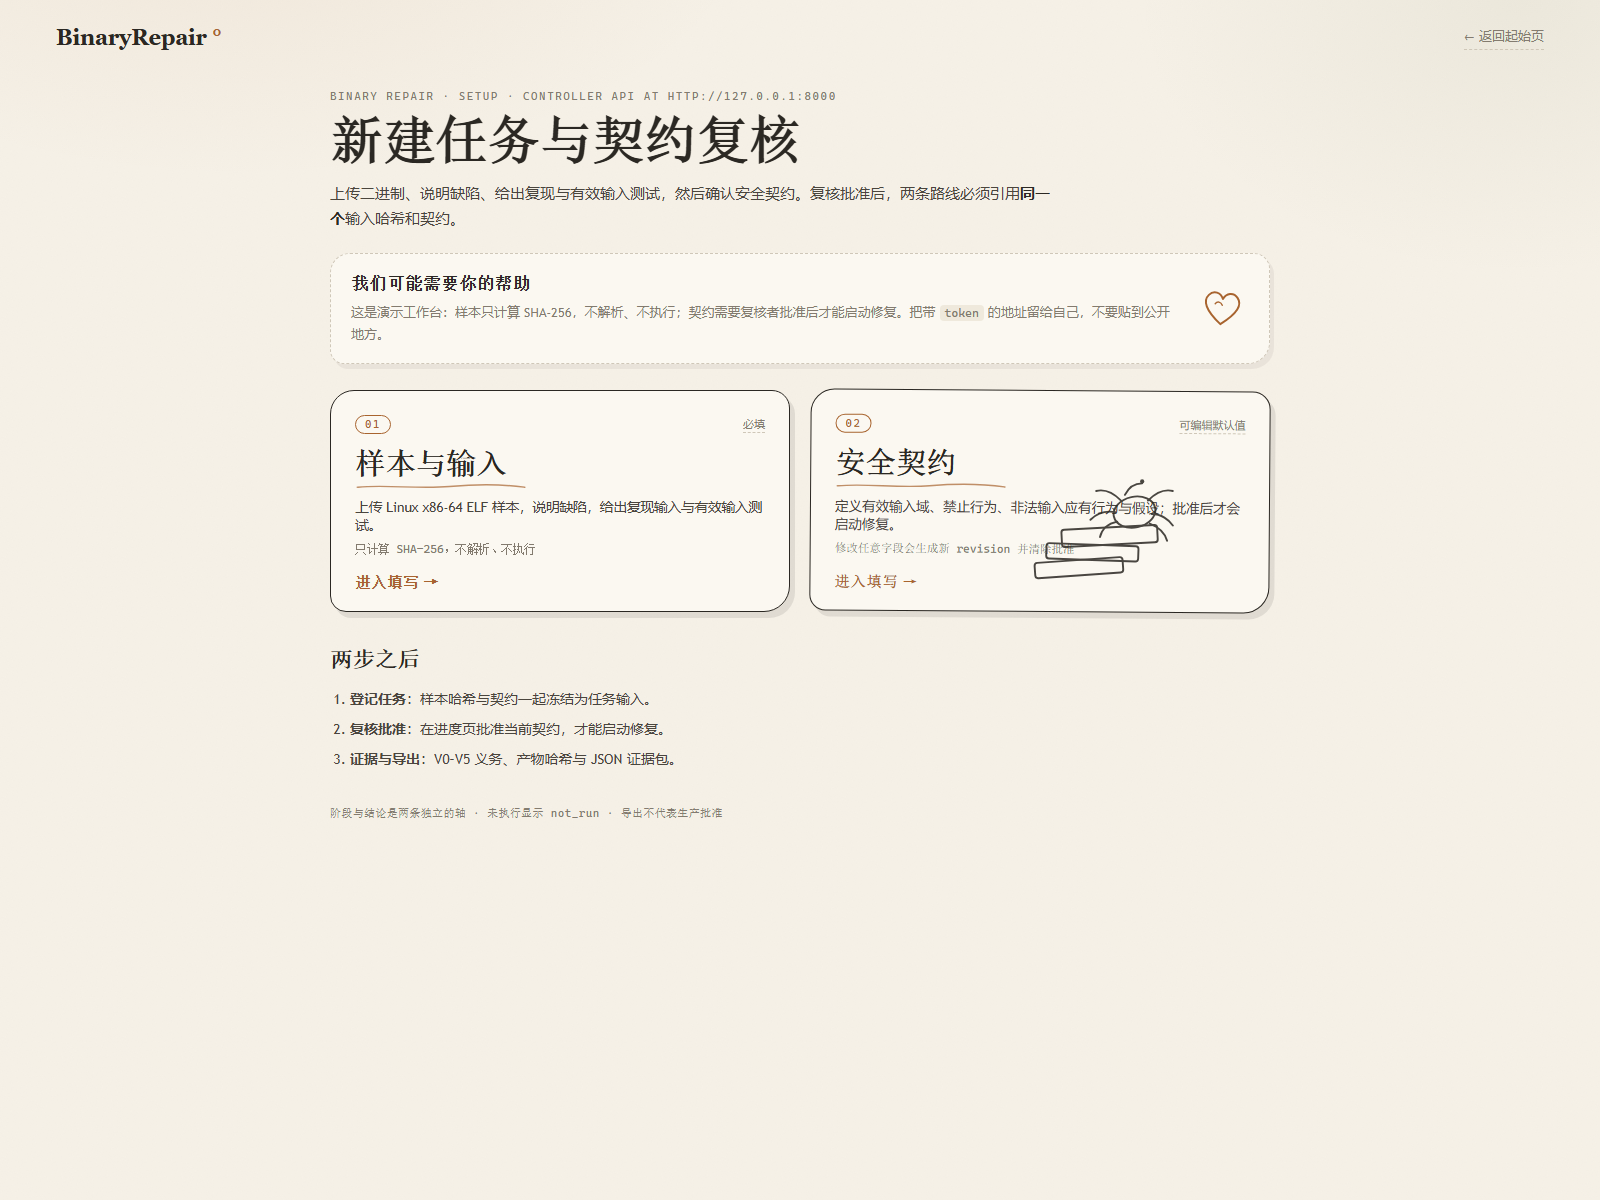
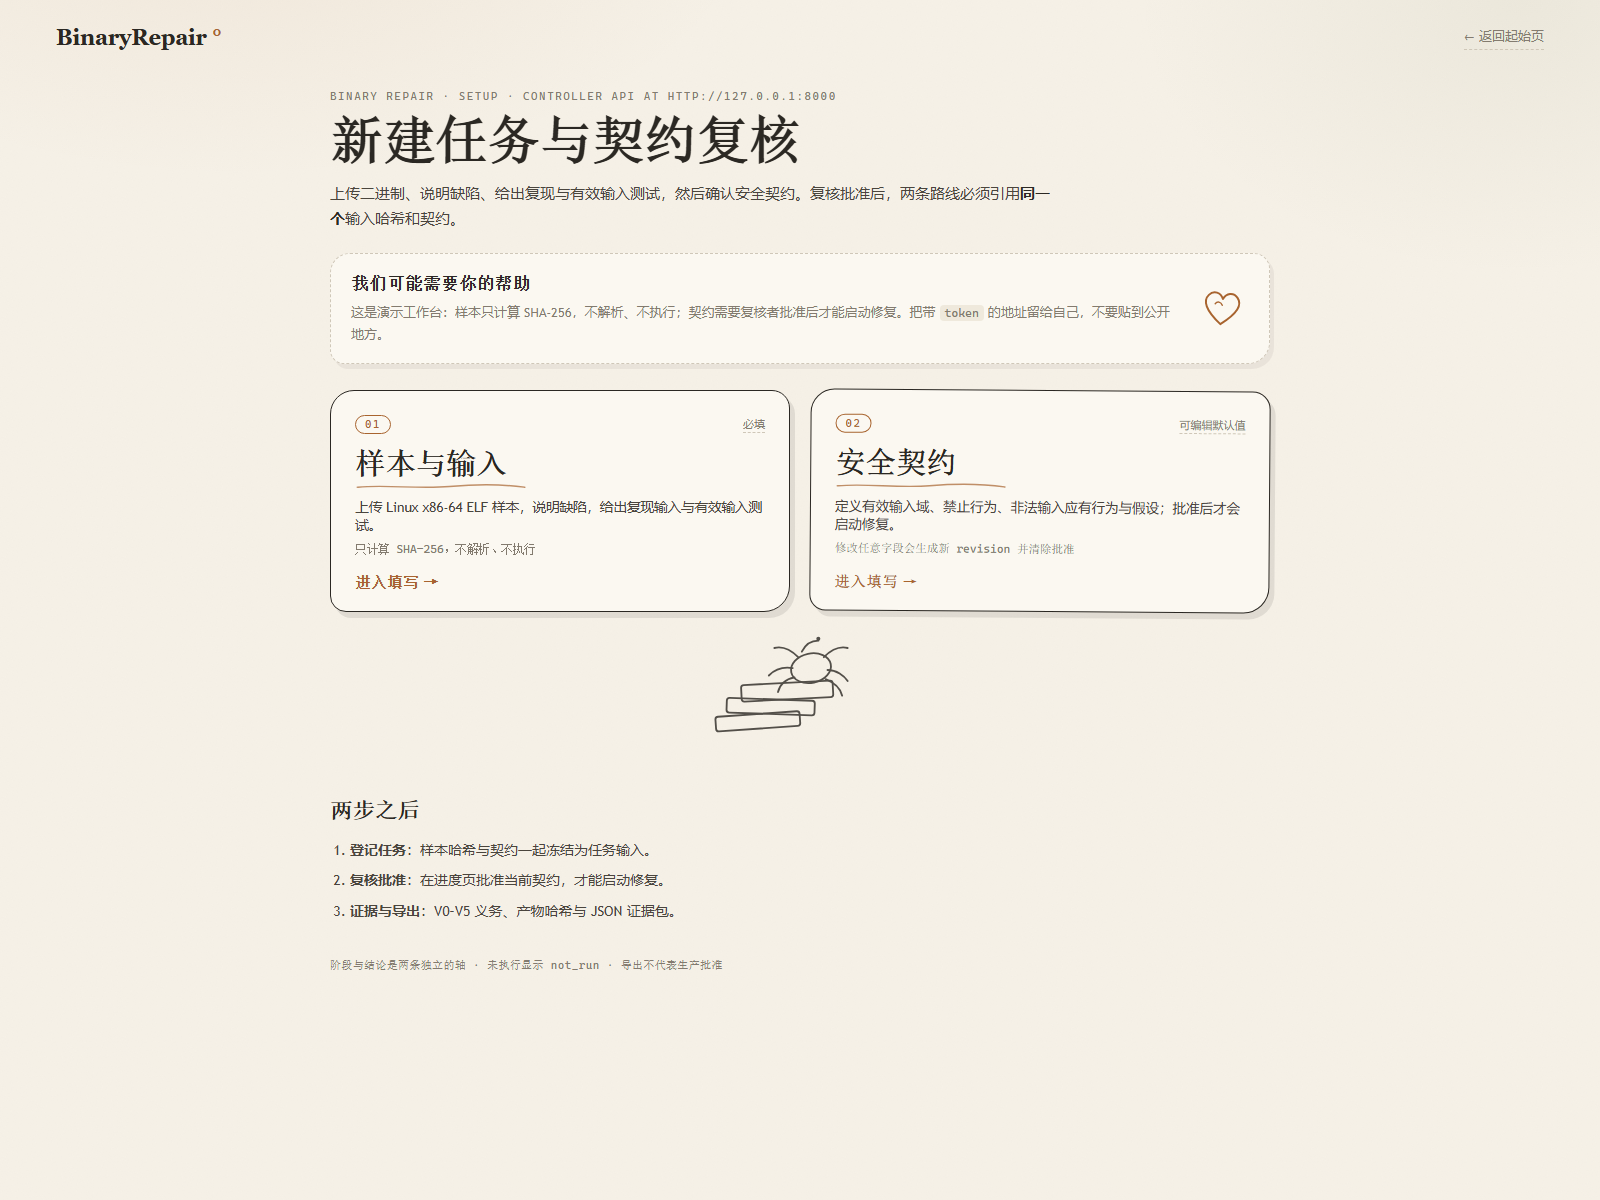
polish(setup): move the hand-drawn doodle below the option cards

diff --git a/app/static/css/setup-handdrawn.css b/app/static/css/setup-handdrawn.css
@@ -101,7 +101,7 @@ a { color: var(--ink); }
 .paper-tip-text p { margin: 4px 0 0; font-size: 13px; color: var(--muted); line-height: 1.7; }
 .paper-tip-text code { font-family: var(--font-mono); font-size: 0.9em; background: #efe9dc; padding: 1px 5px; border-radius: 4px; }
 .doodle-heart { width: 54px; flex: 0 0 54px; color: var(--accent); transform: rotate(6deg); }
-.doodle-bug { position: absolute; right: max(2vw, 12px); top: 78px; width: 230px; color: var(--ink); opacity: 0.85; pointer-events: none; }
+.doodle-bug { display: block; width: 220px; margin: 14px auto 0; color: var(--ink); opacity: 0.8; pointer-events: none; }
 
 /* wizard views */
 .wizard { position: relative; }
